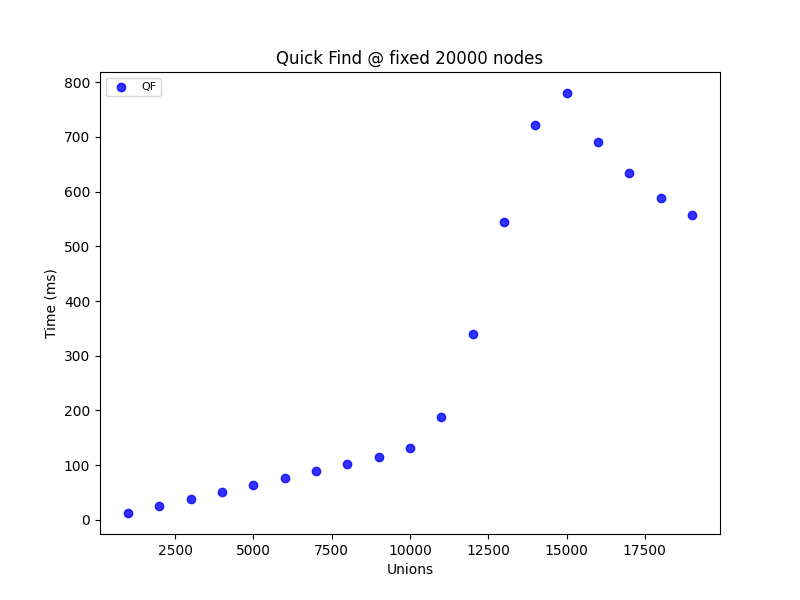
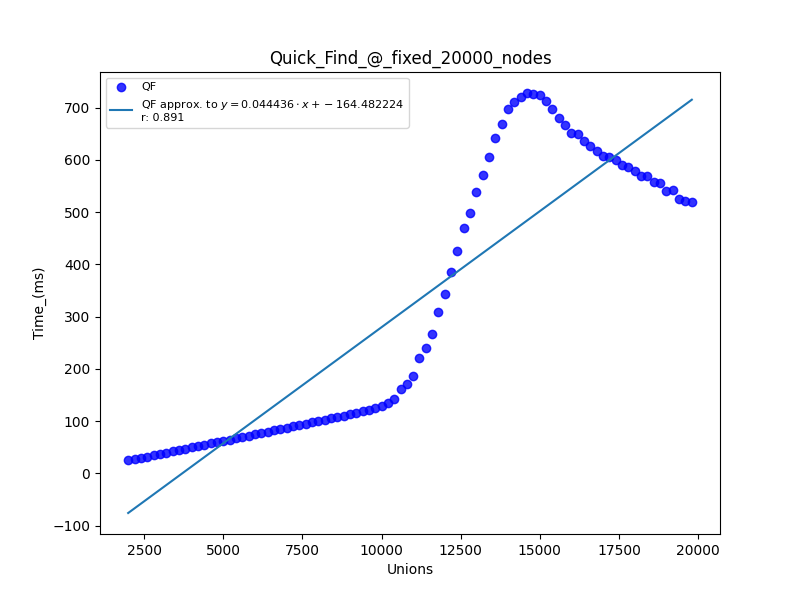
serialized plotters

diff --git a/A01/src/App.java b/A01/src/App.java
@@ -7,8 +7,36 @@ public class App {
     public static void main(String[] args) {
         Plotter<Integer, Double> plt;
         qfFixedRace race = new qfFixedRace();
-        //kSumRace tsrace = new kSumRace();
-    
+
+
+        plt = new Plotter<>("uf/WUFvsQF_5_000_max.png",
+                         "Unions", "Time (ms)",
+                                 Plotter.Type.LINEAR,
+                           "Weighted UnionFind vs Quick Find @ fixed 5_000 nodes");
+
+        race.runWFvQF(5000, 100, 500, plt);
+        
+
+        plt = new Plotter<>("uf/WUFvsQF_10_000_max.png",
+                         "Unions", "Time (ms)",
+                                 Plotter.Type.LINEAR,
+                           "Weighted UnionFind vs Quick Find @ fixed 10_000 nodes");
+
+        race.runWFvQF(10000, 100, 1000, plt);
+
+
+
+        plt = new Plotter<>("uf/WUFvsQF_20_000_max.png",
+                         "Unions", "Time (ms)",
+                                 Plotter.Type.LINEAR,
+                            "Weighted UnionFind vs Quick Find @ fixed 20_000 nodes");
+        race.runWFvQF(20000, 200, 2000, plt);
+
+        
+
+
+        
+
         
         /**
         Plotter<Integer, Double> plt = new Plotter<>("ksum/BruteForcevsCached_100.png", "Length", "Time (ms)", Plotter.Type.EXPONENTIAL,"Brute-Force versus Cached 3-Sum @ 100 Max Elements.");
@@ -91,6 +119,7 @@ public class App {
         race.runWFvQF(5000, 100, 500, plt);
         */
 
+        /**
         plt = new Plotter<>("test/x2.png","X TEST","Y TEST", Plotter.Type.LINE,"TEST PLOT");
         plt.add(new Integer[]{1,2,3,4,5,6,7,8,9,10}, new Double[]{2.0,8.0,18.0,32.0,50.0,72.0,98.0,128.0,162.0,200.0}, "Test Plot booyah!");
         plt.add(new Integer[]{1,2,3,4,5,6,7,8,9,10}, new Double[]{-3.0,3.0,13.0,27.0,45.0,67.0,93.0,123.0,157.0,195.0}, "test plot -5 lololo");
@@ -98,7 +127,7 @@ public class App {
         
         Plotter<Integer, Double> pltNew = Plotter.LoadPlotter("src/graphs/test/x2_plotter.ser");
         pltNew.plot();
-        /**
+        
          python src/scripts/pyplot.py src/graphs/test/x2.png [[1,2,3,4,5,6,7,8,9,10]] [[2.0,8.0,18.0,32.0,50.0,72.0,98.0,128.0,162.0,200.0]] X TEST Y TEST TEST PLOT ["Line"] ["test Plot label yeah"] 
          
          */

diff --git a/A01/src/Plotter.java b/A01/src/Plotter.java
@@ -291,6 +291,7 @@ public class Plotter<T, R> implements Serializable{
                 System.out.println("Python script exited with code: " + exitCode);
             }
         
+        save();
         } catch (IOException e) {
             e.printStackTrace();
 
@@ -312,6 +313,7 @@ public class Plotter<T, R> implements Serializable{
     }
 
     public void save() {
+        
         try {
             String saveName = rmFileExtension();
             String serializedName = saveName + "_plotter.ser";
